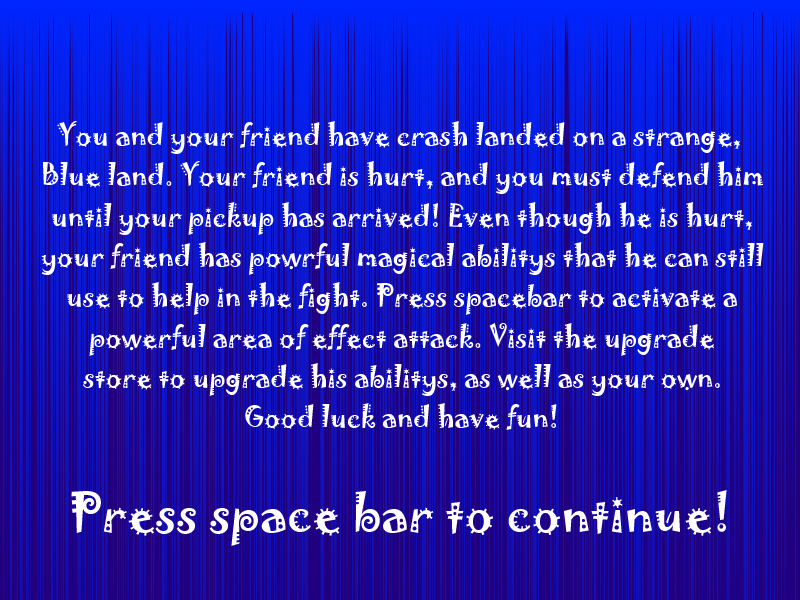
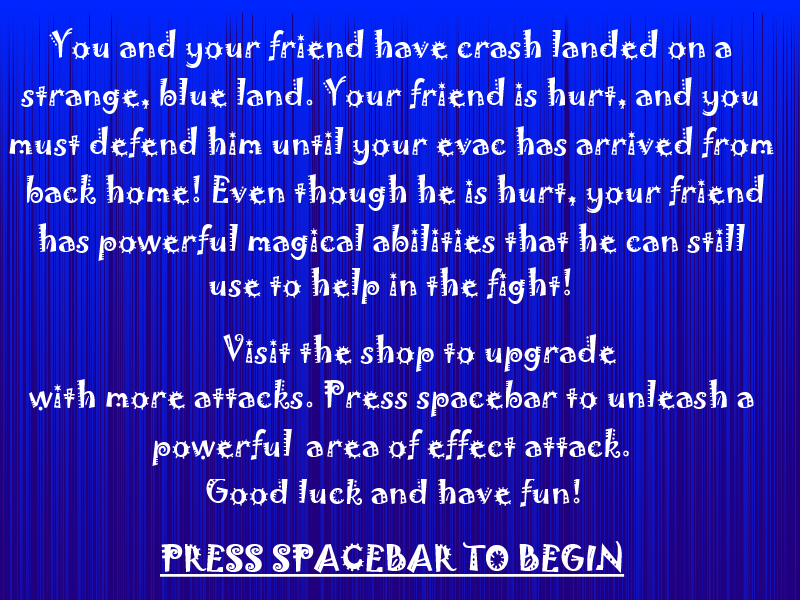
Added button to go to ShopState.java and back to InGame.java, fixed typos and formatting for intro.png

Changed region(s): [[0.0, 0.03, 0.9688, 0.96]]

diff --git a/src/me/jack/ld26/States/InGame.java b/src/me/jack/ld26/States/InGame.java
@@ -2,12 +2,11 @@ package me.jack.ld26.States;
 
 import me.jack.ld26.Level.Level;
 import me.jack.ld26.Powerup.SlowDownPowerup;
-import org.newdawn.slick.GameContainer;
-import org.newdawn.slick.Graphics;
-import org.newdawn.slick.Image;
-import org.newdawn.slick.SlickException;
+import org.newdawn.slick.*;
 import org.newdawn.slick.state.BasicGameState;
 import org.newdawn.slick.state.StateBasedGame;
+
+import java.awt.Rectangle;
 
 /**
  * Author: Jack
@@ -17,7 +16,7 @@ public class InGame extends BasicGameState {
 
 
     Level level = new Level();
-    Image bg = null;
+    static Image bg = null;
 
 
     long timePassed = 0;
@@ -28,11 +27,18 @@ public class InGame extends BasicGameState {
         bg = new Image("/res/bg.png");
     }
 
+    Rectangle shopButton = new Rectangle(672,30,128,32);
     @Override
     public void render(GameContainer gameContainer, StateBasedGame stateBasedGame, Graphics graphics) throws SlickException {
         graphics.drawImage(bg, 0, 0);
         level.render(graphics);
+        graphics.setColor(Color.gray);
+        graphics.fillRect(672,30,128,32);
+        graphics.setColor(Color.white);
+        graphics.drawString("Shop",672 + 64,10+32);
     }
+
+    boolean enterShop = false;
 
     @Override
     public void update(GameContainer gameContainer, StateBasedGame stateBasedGame, int i) throws SlickException {
@@ -46,12 +52,22 @@ public class InGame extends BasicGameState {
             GameOver.set(timePassed,level.currentLevel);
             stateBasedGame.enterState(2);
         }
+
+        if(enterShop){
+            stateBasedGame.enterState(3);
+            enterShop = false;
+        }
         timePassed += i;
     }
 
     @Override
     public void mouseReleased(int button, int x, int y) {
         super.mouseReleased(button, x, y);
+        if(button == 0){
+            if(shopButton.contains(x,y)){
+                enterShop = true;
+            }
+        }
         if(button == 1){
             new SlowDownPowerup().use(level);
         }

diff --git a/src/me/jack/ld26/States/ShopState.java b/src/me/jack/ld26/States/ShopState.java
@@ -7,6 +7,8 @@ import org.newdawn.slick.*;
 import org.newdawn.slick.state.BasicGameState;
 import org.newdawn.slick.state.StateBasedGame;
 
+import java.awt.Rectangle;
+
 /**
  * Author: Jack
  * Date: 27/04/13
@@ -33,8 +35,13 @@ public class ShopState extends BasicGameState {
 
     }
 
+    Rectangle backButton = new Rectangle(672,30,128,32);
+
+
+    boolean back = false;
     @Override
     public void render(GameContainer gameContainer, StateBasedGame stateBasedGame, Graphics graphics) throws SlickException {
+        graphics.drawImage(InGame.bg,0,0);
         graphics.setFont(LD26Game.font);
         int x = 132;
         int y = 132;
@@ -56,10 +63,30 @@ public class ShopState extends BasicGameState {
 
 
         }
+
+        graphics.setColor(Color.gray);
+        graphics.fillRect(672,30,128,32);
+        graphics.setColor(Color.white);
+        graphics.drawString("Back",672 + 64,10+32);
     }
 
     @Override
     public void update(GameContainer gameContainer, StateBasedGame stateBasedGame, int i) throws SlickException {
+        if(back){
+            stateBasedGame.enterState(1);
+            back = false;
+        }
+    }
+
+    @Override
+    public void mouseReleased(int button, int x, int y) {
+        super.mouseReleased(button, x, y);
+        if(button == 0){
+            if(backButton.contains(x,y)){
+               back = true;
+            }
+        }
 
     }
+
 }

diff --git a/src/me/jack/ld26/Powerup/PowerUpSlot.java b/src/me/jack/ld26/Powerup/PowerUpSlot.java
@@ -10,7 +10,7 @@ import org.newdawn.slick.SlickException;
  */
 public class PowerUpSlot {
     Image image;
-   public Powerup p;
+    public Powerup p;
     public PowerUpSlot(String res,Powerup p ){
         try {
             image = new Image(res);
